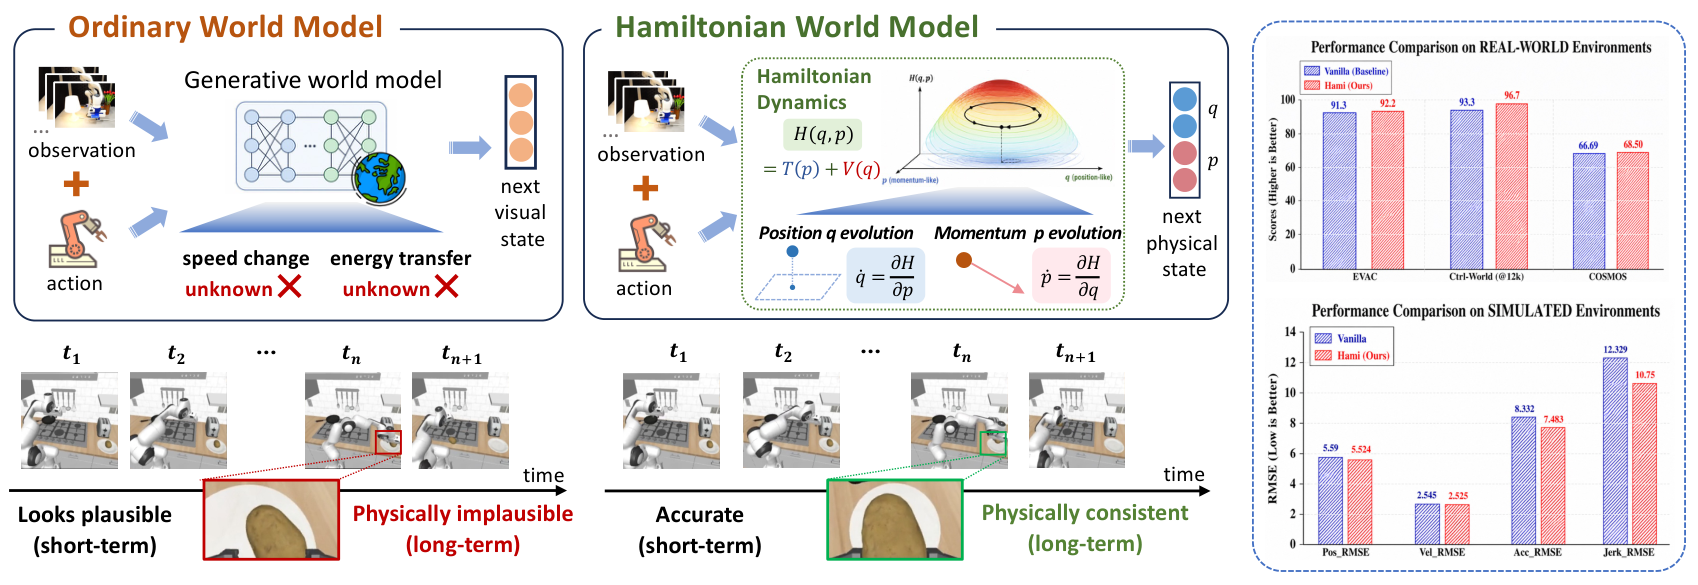
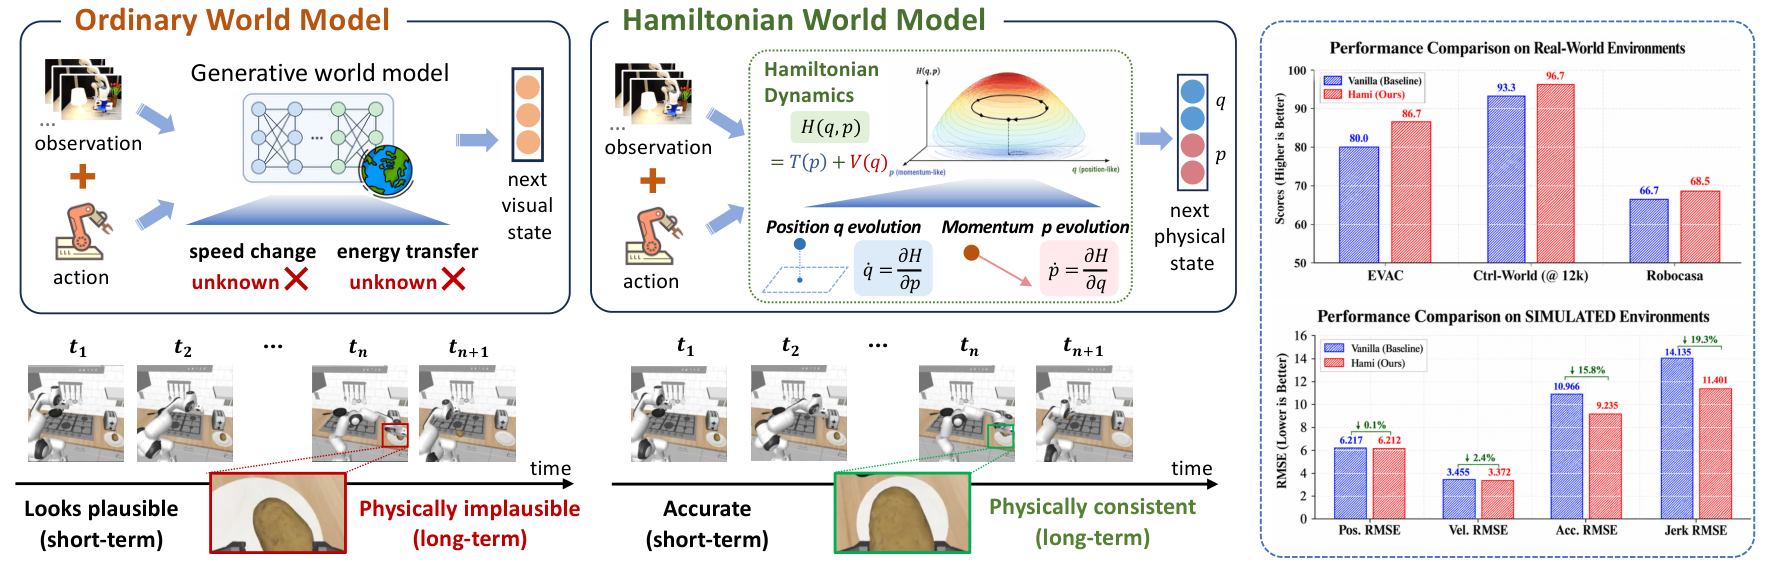
Update the project page to the revised 2027 figures and tables.

diff --git a/index.html b/index.html
@@ -92,7 +92,8 @@
     }
     table.results td, table.results th { text-align: center; vertical-align: middle; }
     table.results td:first-child, table.results th:first-child { text-align: left; }
-    .table.is-striped tbody tr.ours {
+    .table.is-striped tbody tr.ours,
+    .table.is-striped tbody td.ours {
       background-color: #e7f1ff !important;
       font-weight: 600;
     }
@@ -425,7 +426,7 @@
     <div class="content has-text-centered">
       <img class="figure-frame" src="assets/figures/intro.png" alt="Ordinary world model compared with Hamiltonian World Model">
       <p class="is-size-7 caption">
-        Comparison between an ordinary generative world model and Hamiltonian World Model, matching the paper overview. <strong>Left:</strong> a generic transition can look plausible over a short horizon while speed change and energy transfer remain unconstrained, so long-horizon contact becomes physically implausible. <strong>Right:</strong> the same observation and action are evolved in phase space, and the predicted future stays physically consistent.
+        Comparison between an ordinary generative world model and Hamiltonian World Model. <strong>Left:</strong> a generic transition can look plausible over a short horizon while speed change and energy transfer remain unconstrained, so long-horizon contact becomes physically implausible. <strong>Center:</strong> the same observation and action are evolved in phase space, and the predicted future stays physically consistent. <strong>Right:</strong> real-robot scores on EVAC, Ctrl-World, and RoboCasa, together with simulated position, velocity, acceleration, and jerk error.
       </p>
     </div>
   </div>
@@ -457,7 +458,7 @@
             <th style="background:#f0f4f9;">Method</th>
             <th style="background:#f0f4f9;">Step</th>
             <th style="background:#f0f4f9;">Pos. RMSE &darr;</th>
-            <th style="background:#f0f4f9;">Speed RMSE &darr;</th>
+            <th style="background:#f0f4f9;">Vel. RMSE &darr;</th>
             <th style="background:#f0f4f9;">Acc. RMSE &darr;</th>
             <th style="background:#f0f4f9;">Jerk RMSE &darr;</th>
           </tr>
@@ -465,16 +466,46 @@
         <tbody>
           <tr><td>Vanilla</td><td>30</td><td>6.217</td><td>3.455</td><td>10.966</td><td>14.135</td></tr>
           <tr class="ours"><td>Ours</td><td>30</td><td>6.212</td><td>3.372</td><td>9.235</td><td>11.401</td></tr>
-          <tr><td>Vanilla</td><td>60</td><td>5.590</td><td>2.545</td><td>8.332</td><td>12.329</td></tr>
-          <tr class="ours"><td>Ours</td><td>60</td><td>5.524</td><td>2.525</td><td>7.483</td><td>10.750</td></tr>
+          <tr><td>Vanilla</td><td>50</td><td>5.590</td><td>2.545</td><td>8.332</td><td>12.329</td></tr>
+          <tr class="ours"><td>Ours</td><td>50</td><td>5.524</td><td>2.525</td><td>7.483</td><td>10.750</td></tr>
         </tbody>
       </table>
-      <p class="is-size-7 caption">Lower is better. Object centers are read from generated frames; speed, acceleration, and jerk are finite differences against simulator annotations. The Hamiltonian transition reduces higher-order motion error at both horizons.</p>
+      <p class="is-size-7 caption">Instantaneous physical-state prediction. All models are trained with a 10-step horizon and evaluated at 30 and 50 steps. Lower is better.</p>
+    </div>
+
+    <div class="content" style="margin-top: 36px; overflow-x: auto;">
+      <h3 class="title is-5 has-text-centered">Table 2: Video prediction across horizons</h3>
+      <table class="table is-bordered is-striped is-hoverable is-fullwidth results" style="font-size: 0.88rem;">
+        <thead>
+          <tr>
+            <th rowspan="2" style="background:#f0f4f9;">Train</th>
+            <th rowspan="2" style="background:#f0f4f9;">Test</th>
+            <th colspan="2" style="background:#f0f4f9;">MSE &darr;</th>
+            <th colspan="2" style="background:#f0f4f9;">MAE &darr;</th>
+          </tr>
+          <tr>
+            <th style="background:#f0f4f9;">Vanilla</th>
+            <th style="background:#f0f4f9;">Ours</th>
+            <th style="background:#f0f4f9;">Vanilla</th>
+            <th style="background:#f0f4f9;">Ours</th>
+          </tr>
+        </thead>
+        <tbody>
+          <tr><td>10</td><td>10</td><td>2.76</td><td class="ours">2.56</td><td>23.88</td><td class="ours">21.27</td></tr>
+          <tr><td>10</td><td>30</td><td>25.38</td><td class="ours">23.82</td><td>53.56</td><td class="ours">49.27</td></tr>
+          <tr><td>10</td><td>50</td><td>55.57</td><td class="ours">51.18</td><td>87.59</td><td class="ours">80.37</td></tr>
+          <tr><td>10</td><td>60</td><td>62.32</td><td class="ours">53.03</td><td>95.32</td><td class="ours">82.58</td></tr>
+          <tr><td>30</td><td>30</td><td>25.81</td><td class="ours">24.38</td><td>79.36</td><td class="ours">73.31</td></tr>
+          <tr><td>30</td><td>50</td><td>37.55</td><td class="ours">33.65</td><td>94.54</td><td class="ours">87.84</td></tr>
+          <tr><td>30</td><td>60</td><td>44.59</td><td class="ours">38.93</td><td>102.55</td><td class="ours">94.60</td></tr>
+        </tbody>
+      </table>
+      <p class="is-size-7 caption">Video prediction under different training and evaluation horizons. Lower is better. Trained for 10 steps and rolled out to 60, HWM reduces MSE from 62.32 to 53.03 and MAE from 95.32 to 82.58.</p>
     </div>
 
     <div class="two-col" style="margin-top: 36px;">
       <div style="overflow-x: auto;">
-        <h3 class="title is-5 has-text-centered">Table 2: Ctrl-World</h3>
+        <h3 class="title is-5 has-text-centered">Table 3: Ctrl-World</h3>
         <table class="table is-bordered is-striped is-hoverable is-fullwidth results" style="font-size: 0.82rem;">
           <thead>
             <tr>
@@ -495,7 +526,7 @@
         <p class="is-size-7 caption">Single-arm multi-view manipulation on AgiBot World, evaluated with EWMBench. All metrics are higher-is-better. nDTW improves by 9.7% relative.</p>
       </div>
       <div style="overflow-x: auto;">
-        <h3 class="title is-5 has-text-centered">Table 3: EVAC</h3>
+        <h3 class="title is-5 has-text-centered">Table 4: EVAC</h3>
         <table class="table is-bordered is-striped is-hoverable is-fullwidth results" style="font-size: 0.82rem;">
           <thead>
             <tr>
@@ -518,7 +549,7 @@
     </div>
 
     <div class="content" style="margin-top: 36px; overflow-x: auto;">
-      <h3 class="title is-5 has-text-centered">Table 4: Downstream success with Cosmos-Predict2.5-2B</h3>
+      <h3 class="title is-5 has-text-centered">Table 5: Downstream success with Cosmos-Predict2.5-2B</h3>
       <table class="table is-bordered is-striped is-hoverable is-fullwidth results" style="font-size: 0.88rem;">
         <thead>
           <tr>
